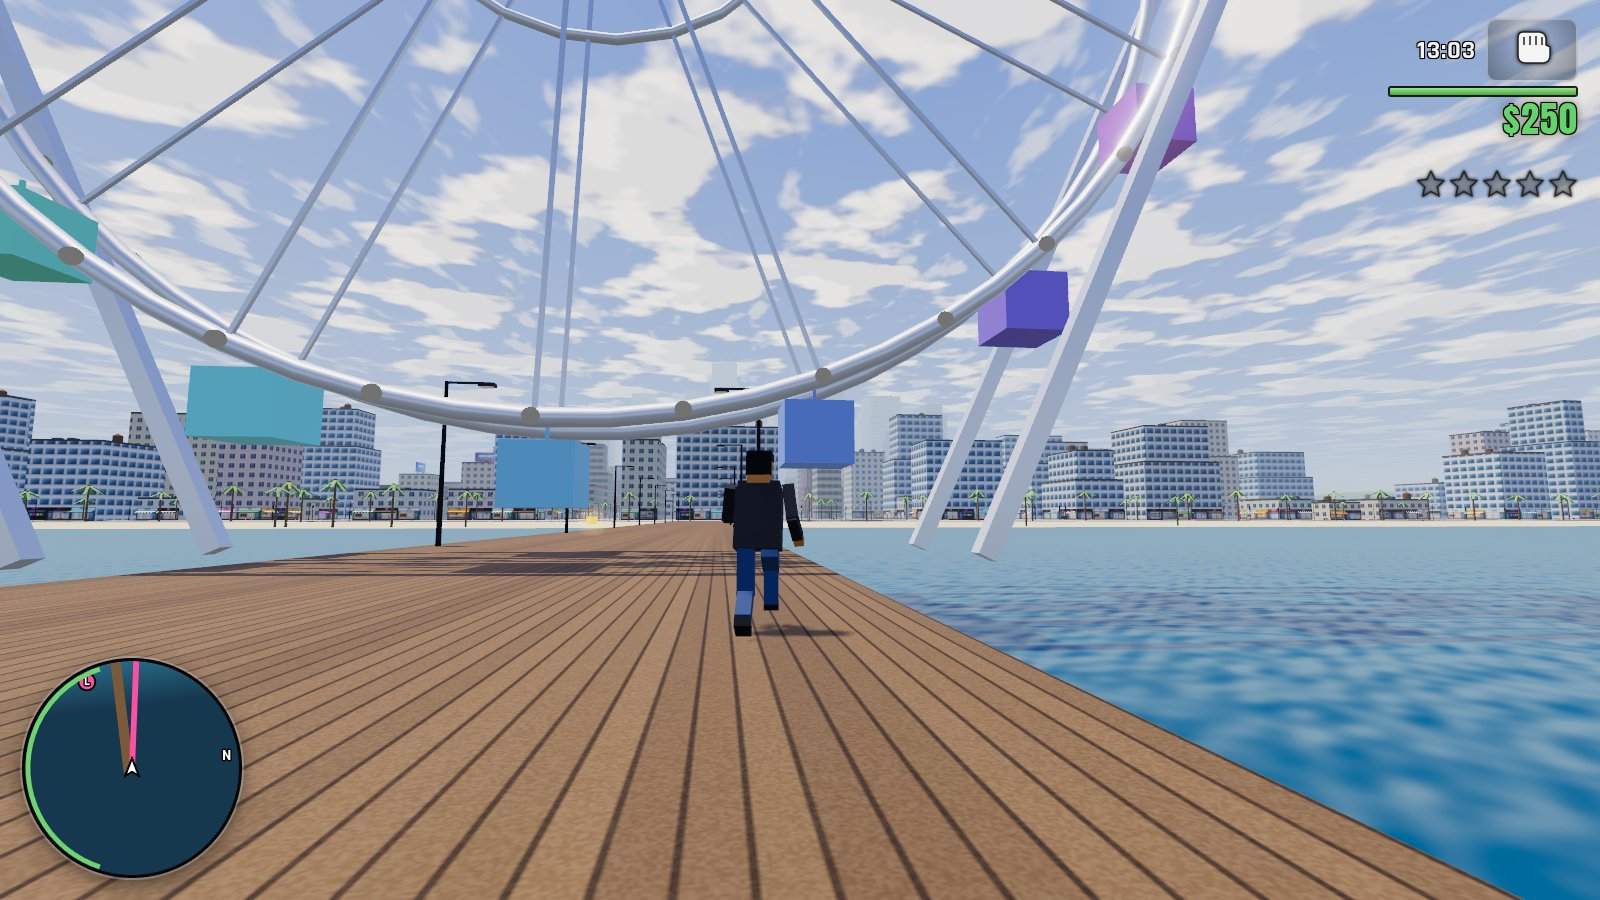
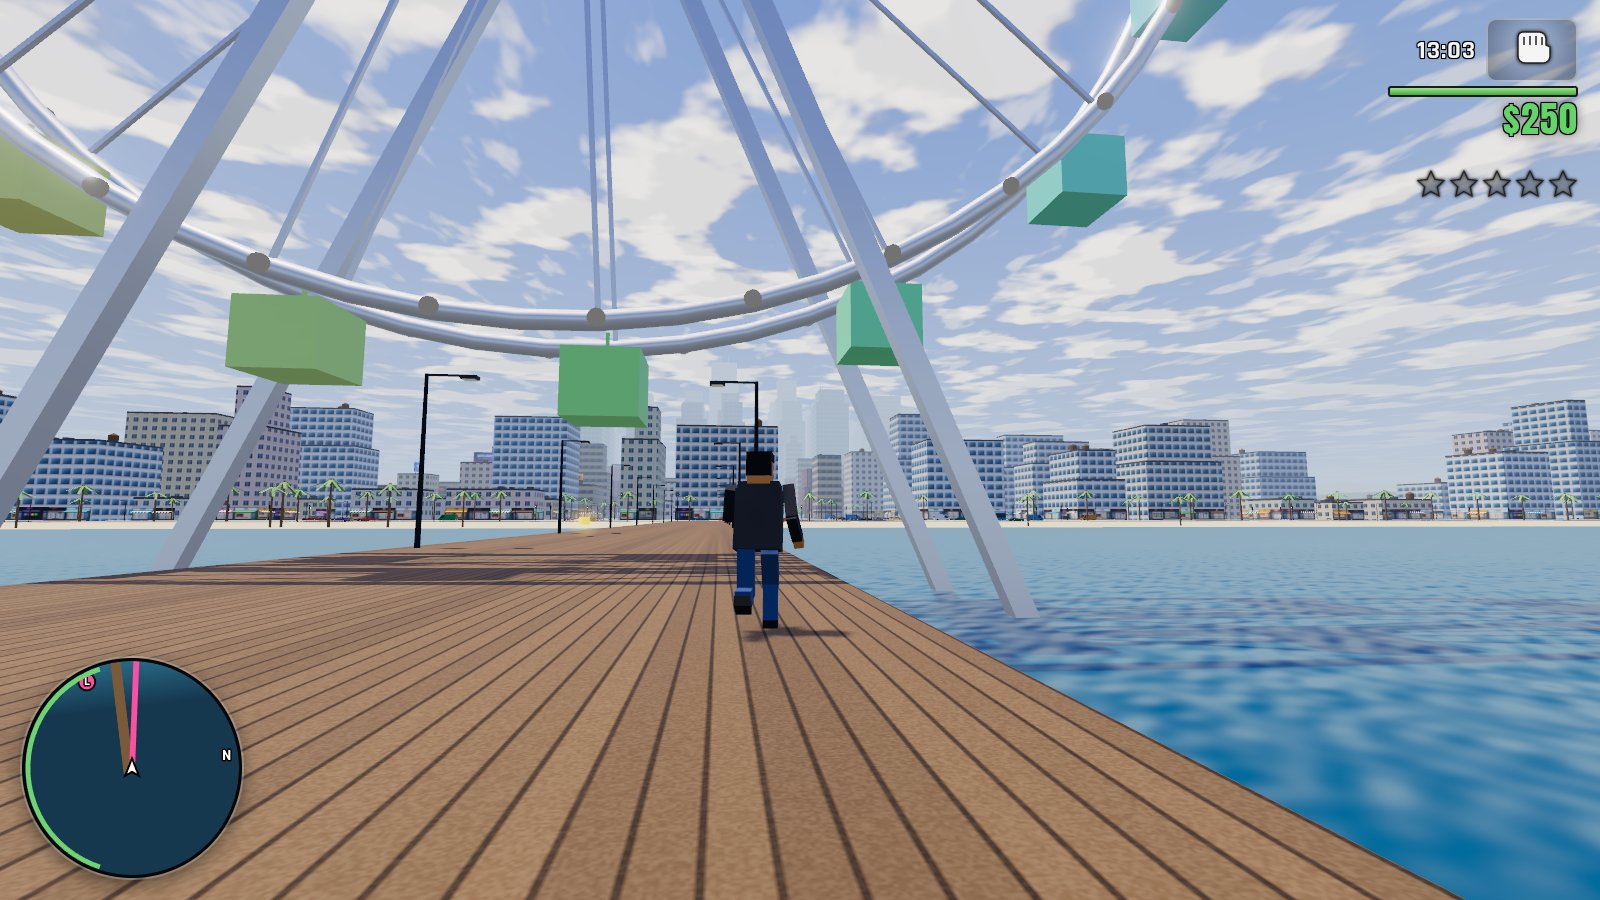
README: final known issues, test counts and measured performance
The Known issues section now merges the 27 earlier entries that still apply with 37 low-severity bugs from the second whole-game sweep, plus the trade-offs the last fix passes left, grouped by area, with the less noticeable groups folded away.
The controls and cheat notes follow the last fixes: on a gamepad LB steps the weapons in a vehicle, the left stick moves through menus, and F gets you out of a car at once.
The unit and end-to-end counts are those of the final build (1263 unit tests in 52 files, 74 end-to-end tests in 18 files).
The performance numbers were measured with the perf playtest on a quiet machine: a steady 60 fps at High with 260 to 600 draw calls and 6 to 8 ms of CPU per frame on an RTX 3070 laptop.
The pier and map screenshots are retaken on the final build, which raised the Ferris wheel, fixed its legs and put the Midtown label on Midtown.

diff --git a/README.md b/README.md
@@ -45,7 +45,7 @@ Progress stays in this browser: the game autosaves after every mission passed, E
 | Shoot / punch (on foot) | Left click | RT |
 | Aim (on foot) | Right click | LT |
 | Reload (on foot) | R | B |
-| Choose a weapon | 1–6, mouse wheel, Q (previous) | LB / RB (on foot) |
+| Choose a weapon | 1–6, mouse wheel, Q (previous) | LB / RB on foot, LB in a vehicle |
 | Accelerate / brake and reverse (vehicle) | W or Up / S or Down | RT / LT |
 | Handbrake (vehicle) | Space | RB or A |
 | Shoot from a vehicle (pistol or SMG) | Left click | X |
@@ -57,14 +57,14 @@ Progress stays in this browser: the game autosaves after every mission passed, E
 | Camera distance | V | R3 |
 | Map | M | Back |
 | Pause | Esc or P | Start |
-| Menus | W S or Up Down choose, A D or Left Right adjust, Enter or Space confirm, Esc or Backspace back | D-pad choose and adjust, A confirm, B back |
+| Menus | W S or Up Down choose, A D or Left Right adjust, Enter or Space confirm, Esc or Backspace back | D-pad or left stick choose and adjust, A confirm, B back |
 
 - Keys are matched by position and named here as on a US QWERTY keyboard.
   In the game, prompts and the CONTROLS screen show the names printed on your own layout, so on AZERTY you move with Z Q S D; Firefox and Safari learn the layout as you press keys.
 - The game captures the mouse when you start or resume play, or when you click the game view.
   Mouse look works only while it is captured, and losing it (Esc) pauses the game, as does switching to another tab.
 - Weapon slots: 1 Fists, 2 Pistol, 3 SMG, 4 Shotgun, 5 Assault Rifle, 6 Rocket Launcher.
-  The wheel, Q and LB / RB step through the weapons you own that still have ammo; in a vehicle only the pistol and SMG fire, and Q changes the station.
+  The wheel, Q and LB / RB step through the weapons you own that still have ammo; in a vehicle only the pistol and SMG fire, Q changes the station, and on a gamepad LB steps the weapons (RB is the handbrake).
 - Getting out of a moving car: below 3.5 m/s you step out, up to 11 m/s the car brakes first, and faster than that you bail out, tumble and lose 6 health.
 - Map: click, or press Enter, Space or A at the center cross, to set a waypoint, and do it again on the waypoint to clear it.
   Drag, the arrow keys, W A S D, the D-pad or the left stick pan; the wheel, + and -, or LB and RB zoom; M, Esc or Back close it.
@@ -123,7 +123,7 @@ Progress stays in this browser: the game autosaves after every mission passed, E
 
 Type a code during play: no Enter, any mix of upper and lower case, each letter within 1.5 seconds of the one before.
 A message confirms it ("Cheat activated", or "Cheat: god mode on" and "Cheat: god mode off" for IMMORTAL).
-The first letters of a code may briefly do their usual job (M opens the map, F starts to leave the car), and the game undoes that once the code is complete.
+The first letters of a code may briefly do their usual job (M opens the map, F gets you out of your car), and the game undoes that once the code is complete.
 
 | Code | Effect |
 | --- | --- |
@@ -183,8 +183,7 @@ All of these are minor; the most noticeable come first.
 - On foot the camera does not avoid vehicles, so with your back close to a bus or van it can end up on the far side, with the bodywork hiding you; step away or turn the camera.
 - Brushing past a street tree on foot, its trunk can hang in view for about half a second before the camera jumps in front of it.
 - Aiming while standing in a save, shop or mission marker puts the marker's floating diamond big in front of the camera; step out of the marker first.
-- Swimming a couple of meters off a quay or a Marina pier, swinging the camera over the edge makes it hop up in one frame.
-- Swimming right against a Marina pier with the far camera (V), a fast swing of the view can make the camera jump for a frame.
+- Swimming a couple of meters off a quay or a Marina pier, swinging the camera over the edge makes it hop up in one frame; right against a pier a fast swing with the far camera (V) can make it jump for a frame, and near the edge a wall, a crane leg or a change of camera distance can make it dive in toward you and back out.
 
 **Traffic and driving**
 
@@ -193,32 +192,75 @@ All of these are minor; the most noticeable come first.
 - When a car overtaking one left in the road meets oncoming traffic, the drivers can spend half a minute or more backing up and taking turns.
 - City buses turning at the four outer corners of the ring road crawl round the bend and swing into the oncoming lanes for a couple of seconds.
 - Getting into a bus from its front or back makes your character walk into the bodywork and pop into the seat; walk up to the middle of its driver's side instead.
+- A car that lands a jump on top of another car does not settle on its roof: both cars snap about a meter sideways in a single frame, undamaged.
 - A car or wreck that spins into the tall back corner of a stunt ramp can come to rest with the corner sticking into its side.
-- A car or bus sliding slowly off the side of the pier shows part of its body poking up through the deck for a second or two as it falls in.
+- A car or bus sliding slowly off the side of the pier shows part of its body poking up through the deck for a second or two as it falls in, and a car resting half inside the edge of the pier or the Marina deck can be shoved or steered about twice as deep into it, though it still drives away.
+- Near the land end of Azura Pier or the Marina deck, getting out of a car on the side that faces the edge can drop you about a meter onto the sand, where you cannot climb back up (walk round to the land end), and a wreck sunk under the deck can block getting out of a car parked above it ("No room to get out here") until you drive off.
+- Pressing F within a couple of meters of a car on the other side of a wall (Lou's garage, say) walks you straight through the wall into it.
+- Now and then a new city bus appears slightly overlapping the bus ahead of it in the same lane, usually out of sight, and both end up dented.
+
+<details><summary>More, by area</summary>
 
 **Police, combat and people**
 
-- If another vehicle smashes a car you left behind into a pedestrian and kills them, the death can be pinned on you, with a wanted star, even when you are far away.
-- With an enemy right at your right shoulder, an aimed pistol shot at his head or neck can miss; aim at his chest, fire from the hip or step back.
-- An enemy firing an SMG, rifle or shotgun from a step or two away keeps his gun slightly to one side of you and jerks it onto you with each shot.
+- After a police stop that ends calmly, the officer who got out on the passenger side can grind against his cruiser's side for about half a minute, unable to get back in, and is then left behind when it drives off.
+- A rocket fired at the sea flies on under the surface and blows up far out with no splash, yet still earns a wanted star, and bullets fired at the water likewise end under the surface.
+- At two stars or more, standing still on top of a stunt ramp to be arrested does not work: no officer climbs up, and about 45 seconds after they arrive they shoot you dead; come down off the ramp first.
+- If a car you left behind kills a pedestrian, either because another vehicle smashed it into them or because it was still rolling after you bailed out and died, the death can be pinned on you, with a wanted star, even when you are far away.
 - In a rampage, gang members' stray shots sometimes kill their own crew, and those kills don't count, but new gang members keep coming.
-- People who flee onto the narrow Marina piers walk off the side into the sea, and some stay paddling against a pier or a moored boat.
+- With an enemy right at your right shoulder, an aimed pistol shot at his head or neck can miss; aim at his chest, fire from the hip or step back.
+- Shots at the head and shoulders of someone who has been knocked down or killed pass straight through, though the hips and legs still register.
+- An enemy firing an SMG, rifle or shotgun from a step or two away keeps his gun slightly to one side of you and jerks it onto you with each shot.
+- People who flee onto the narrow Marina piers walk off the side into the sea, and some stay paddling against a pier or a moored boat; on the beach beside a pier or the Marina deck a fleeing person can get boxed in and stand frozen for up to about ten seconds.
+- When a car with people in it sinks in deep water, they vanish on the spot instead of swimming or dying, and nothing is counted as a kill or a crime.
+- Stunt ramps look solid, but bullets, officers' line of sight and explosions pass straight through them.
+- While you climb into a car (about half a second, longer for a carjack or a bus) you cannot be shot or run over: bullets and cars pass through you until you are seated.
 - At one star, an officer who ends up in the sea while you are swimming treads water until you leave it; swimming away still loses the star.
+- Officers on a pier cannot get back to a cruiser standing in the surf beside it: while you are wanted they pace back and forth at the pier's land end, and once you are not they give up and leave the car sitting dark in the water.
+- A police helicopter shot down over a garage (Lou's, for one) falls through the roof and explodes inside among whatever is parked there, and the lighthouse, the crane legs and the Ferris wheel do not stop its fall either.
+- A weapon pickup is used up even when that gun's ammo is already full: it shows "Pistol ammo." and adds nothing until it respawns.
+- With the IMMORTAL cheat on, hits that do no damage still make you spray blood, which can look as if you were hurt.
+- A shot aimed at you that misses can still fly on and hit an officer standing behind you.
+- A gunman firing from a tight gap beside a vehicle now and then puts a stray round into it.
+- A police car shoved into shallow water stays put there while you are close by.
+- At one star far out on Azura Pier, officers on foot can take so long to walk out that the star clears before they reach you.
+
+**Missions and jobs**
+
+- Hot Delivery's package and The Big Score's bank door respond only to you on foot: if you drive onto them nothing happens and the objective stays put, with no hint; get out of the car.
+- After you fail a mission, once MISSION FAILED fades, the objective line and a pink route on the radar can send you to Mama Lou ("Next: Mama Lou has work") while the prompt still says to press E to retry; retrying with E is quicker than driving to her.
+- A fade to black that hides a jump (a mission retry or a car hand-over in Lou's garage, say) can run out behind the pause menu if you pause just as it starts, so you watch the jump when you resume, and it can happen the same way below about 10 fps; a Spray Shack respray also shows its new paint a moment before the screen is fully dark.
+- The low-health hint suggests saving at the safehouse, but during a mission the safehouse refuses to save or heal, and the hint shows only once, so you will not see it again when its advice would work.
+- Pressing E at the safehouse within a second or so of stepping out of a taxi or vigilante car can wrongly answer "You can't save during a rampage"; press E again.
+- Quitting to the title on the BUSTED or WASTED screen just after passing a mission keeps the pass and its pay but skips the bail or hospital bill.
 
 **Graphics**
 
+- Pedestrians can pop into existence on sidewalks far down the street, in plain view, most of all in the first seconds of a new game and when you drive into new streets.
+- Old wrecks and dead bodies can vanish in a single frame while you are looking straight at them from 40 to 60 meters away.
+- At dawn and dusk the brightness and tint of the whole picture can take a small step every 15 seconds or so instead of shifting smoothly, on every graphics tier.
 - At night, tail and brake lights stay plain red without the glow that headlights and street lamps get on High and Medium, and braking barely brightens them.
+- A shot-down police helicopter tumbles out of the sky with no fire or smoke, leaving only the first puff where it was hit.
+- While your car burns, your character vanishes from his seat until you get out; this shows from the side and through the windscreen, and the default chase view mostly hides it.
 - On older or low-end GPUs that cannot render to high-precision buffers, paint, glass and chrome don't reflect the sky and bright lights don't glow, at any setting.
+- The small porches in front of houses (deck, posts and roof) and the bank's front steps are decoration only: cars, people and bullets pass through them.
 - At around 10 fps, water from a knocked-over fire hydrant comes out in separate puffs instead of a steady jet.
 
 **Menus, input and small windows**
 
+- When the top-right corner is crowded (armor, a job or mission status, the evade bar and the DISPATCH line), pop-up messages such as "Waypoint reached", "Cheat activated" and "Autosaved" sit on top of it for a couple of seconds, and in a 1024x768 window a title card such as TAXI DRIVER can land on the DISPATCH line.
 - In small windows (about 500 px tall or 800 px wide, or less), on-screen text can overlap: MISSION PASSED over a help message or an offer card, or the objective over the district name or the radar.
-- On Firefox and Safari with a layout that moves letters (AZERTY, Dvorak, Colemak), the CONTROLS screen and key prompts show US letters until you have pressed those keys once; prompts then correct themselves, and the CONTROLS screen does when you reopen it.
 - Typing a cheat with a menu open can make its first letter do its menu job (MONEYTREE typed on the map closes the map until the code is finished); type cheats during play.
+- Switching to another window during the WASTED or BUSTED screen, or at any time while the mouse is not captured, does not pause the game, so the city and any mission timer keep running in the background; pause with Esc or P before you switch away.
+- On Firefox and Safari with a layout that moves letters (AZERTY, Dvorak, Colemak), the CONTROLS screen and key prompts show US letters until you have pressed those keys once; prompts then correct themselves, and the CONTROLS screen does when you reopen it.
 - If you open the map while holding a movement key, then press and release the opposite key, the map keeps scrolling until you let go of the first key.
 - On a touchpad, a sideways two-finger swipe over the game now and then switches your weapon by one.
-- During a taxi or vigilante job, jumping out of a burning car with the keyboard and straight back in with a gamepad keeps the job going, while getting back in with the keyboard ends it.
+- On a gamepad in a vehicle, LB steps through all your weapons, including ones that cannot be fired from a car, on its way to the Pistol or SMG.
+- At speed, the radar's route line starts a little behind your arrow, because the route is planned again only once a second.
+- If the browser will not capture the mouse (in an embedded page, say), the camera on foot cannot be turned at all and nothing says why; open the game in its own tab.
+- On the title screen, the ambient hum and wind keep playing while the tab is in the background; mute the tab.
+
+</details>
 
 ## Architecture
 
@@ -263,7 +305,7 @@ npm run check                      # typecheck + unit + build + e2e
 
 ### Unit tests
 
-44 files with 1191 tests run in Node, with no browser.
+52 files with 1263 tests run in Node, with no browser.
 They cover collision math, world invariants, physics, driver AI, pedestrians, combat, the wanted level and the police, every story mission completed by a scripted bot with its failure paths and retries, side jobs, saves, and a 10-minute chaotic soak test (36,000 frames with a seeded random player).
 The renderer, crowd, HUD, menus, input, audio and `Game` flows run against small in-file fakes (canvas, WebGL renderer, Web Audio, `localStorage`), and one file even runs the particle and skid-mark shaders through a small GLSL interpreter on the CPU.
 The police tests are statistics over many deterministic seeds, and they set the suite's run time.
@@ -271,7 +313,7 @@ The police tests are statistics over many deterministic seeds, and they set the 
 
 ### End-to-end tests
 
-70 tests in 17 files boot the production build in Chromium (1280x720, one worker) and play it with real keyboard and mouse events and a stubbed standard gamepad.
+74 tests in 18 files boot the production build in Chromium (1280x720, one worker) and play it with real keyboard and mouse events and a stubbed standard gamepad.
 They cover stealing and driving a car, the first mission, Hot Delivery and The Big Score, a murder that brings the police, WASTED, the menus, the gun shop, saving and continuing after a reload, the side jobs, night rendering and the quality tiers, WebGL context loss, crash screens, all nine cheats, and a two-minute chaos session that must average over 30 fps.
 Most tests also fail on any console error, console warning or page error.
 
@@ -332,7 +374,7 @@ scripts/with-slot.sh cpu npx vitest run
 ## Performance
 
 The game targets 60 fps on desktop hardware.
-On an RTX 3070 laptop at High it renders about <!-- PERF: draw calls on High --> draw calls at roughly <!-- PERF: CPU ms per frame on High --> ms of CPU per frame <!-- PERF: where and when measured, e.g. "on foot in Downtown at dusk" -->.
+On an RTX 3070 laptop at High (1600x900) it holds a steady 60 fps with about 260 to 600 draw calls and 0.86 to 0.89 million triangles, at roughly 6 to 8 ms of CPU per frame (about 2 ms of simulation and 4 to 5 ms of rendering), measured with the perf playtest at the start, in Downtown, in a four-star pursuit and on the beach at dusk.
 Nothing adjusts itself at runtime: there is no dynamic resolution, and the tier only changes when you pick another one (see [Settings and graphics quality](#settings-and-graphics-quality) for what each tier trades away).
 `node scripts/playtest.mjs --scenario perf` prints fps, draw calls, triangles and heap at the start, in Downtown, in a four-star pursuit and on the beach at dusk.
 `window.__gta7.state()` also reports `fps` (frames over the last second of game time: a frame counts for at most 0.1 s, so it never reads below 10), `render.calls` and `perf.frameMs`, `simMs` and `renderMs`, which describe the last frame only, so sample them many times.
